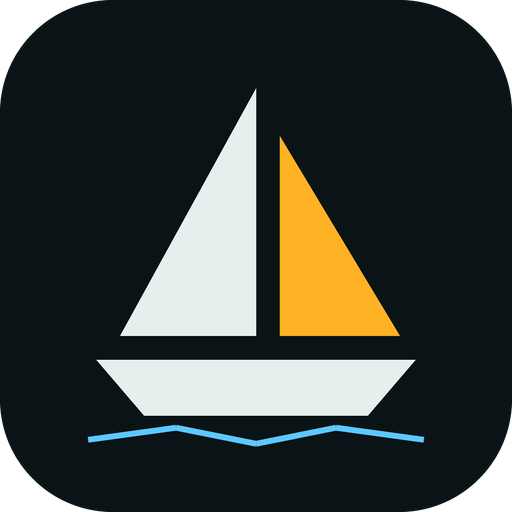
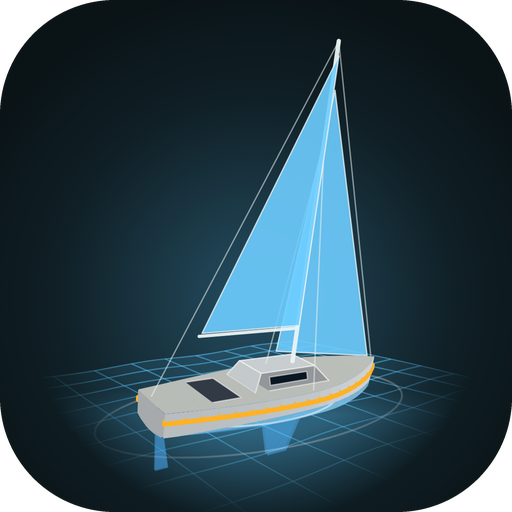
Nouvelle icône : bateau 3D de l'appli (Android, Raspberry Pi, manifeste)
Claude-Session: https://claude.ai/code/session_01HsNMT45S99z79XA6F1xfKn

diff --git a/pi/scripts/build.js b/pi/scripts/build.js
@@ -22,6 +22,7 @@ fs.mkdirSync(out, { recursive: true });
 fs.writeFileSync(path.join(out, 'index.html'), html);
 fs.copyFileSync(path.join(root, 'www', 'manifest.webmanifest'), path.join(out, 'manifest.webmanifest'));
 fs.copyFileSync(path.join(root, 'icone-512.png'), path.join(out, 'icon.png'));
+fs.copyFileSync(path.join(root, 'icone-512.png'), path.join(out, 'icon-512.png'));
 fs.writeFileSync(path.join(out, 'sw.js'), `const C='carnet-pi-${ver}';
 const TILE_HOSTS=['tile.openstreetmap.org','basemaps.cartocdn.com','server.arcgisonline.com','tiles.openseamap.org'];
 self.addEventListener('install',e=>{e.waitUntil(caches.open(C).then(c=>c.addAll(['./','./index.html','./pi-adapter.js','./manifest.webmanifest'])));self.skipWaiting()});

diff --git a/www/sw.js b/www/sw.js
@@ -1,6 +1,6 @@
 const C='carnet-2.0';
 const TILE_HOSTS=['tile.openstreetmap.org','basemaps.cartocdn.com','server.arcgisonline.com','tiles.openseamap.org'];
-self.addEventListener('install',e=>{e.waitUntil(caches.open(C).then(c=>c.addAll(['./','./index.html','./manifest.webmanifest'])));self.skipWaiting()});
+self.addEventListener('install',e=>{e.waitUntil(caches.open(C).then(c=>c.addAll(['./','./index.html','./manifest.webmanifest','./icon-512.png'])));self.skipWaiting()});
 self.addEventListener('activate',e=>e.waitUntil(self.clients.claim()));
 self.addEventListener('fetch',e=>{
   const u=new URL(e.request.url);
